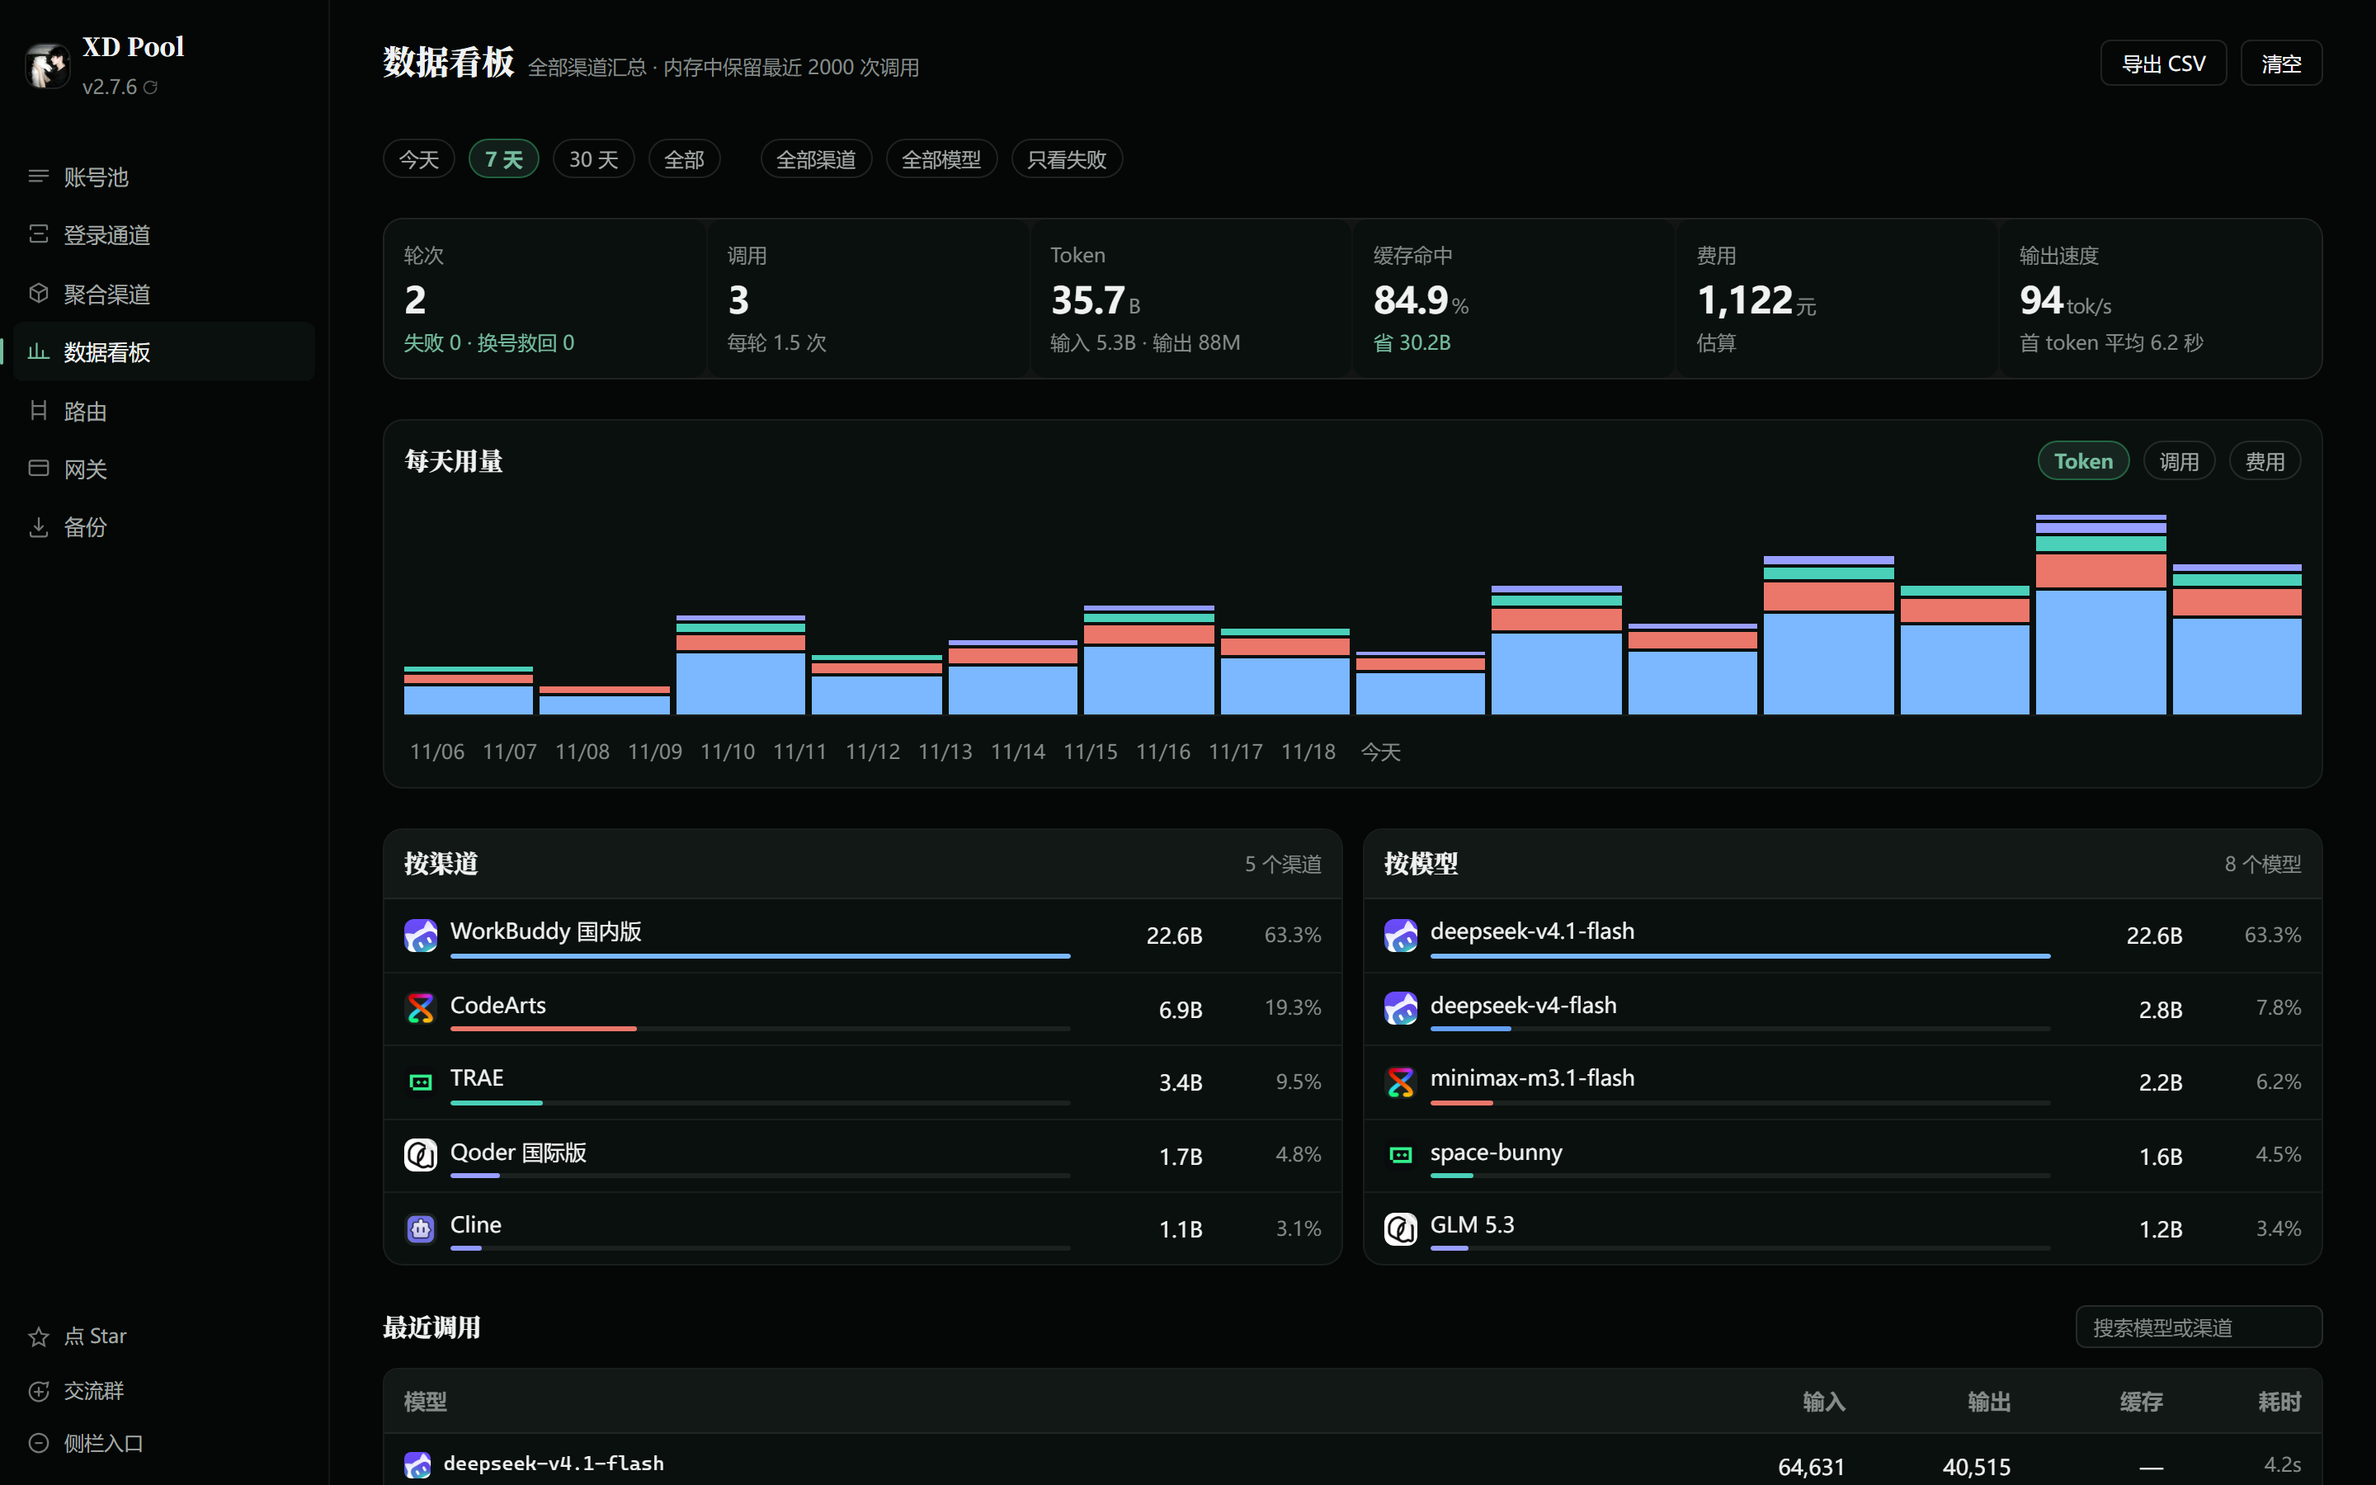
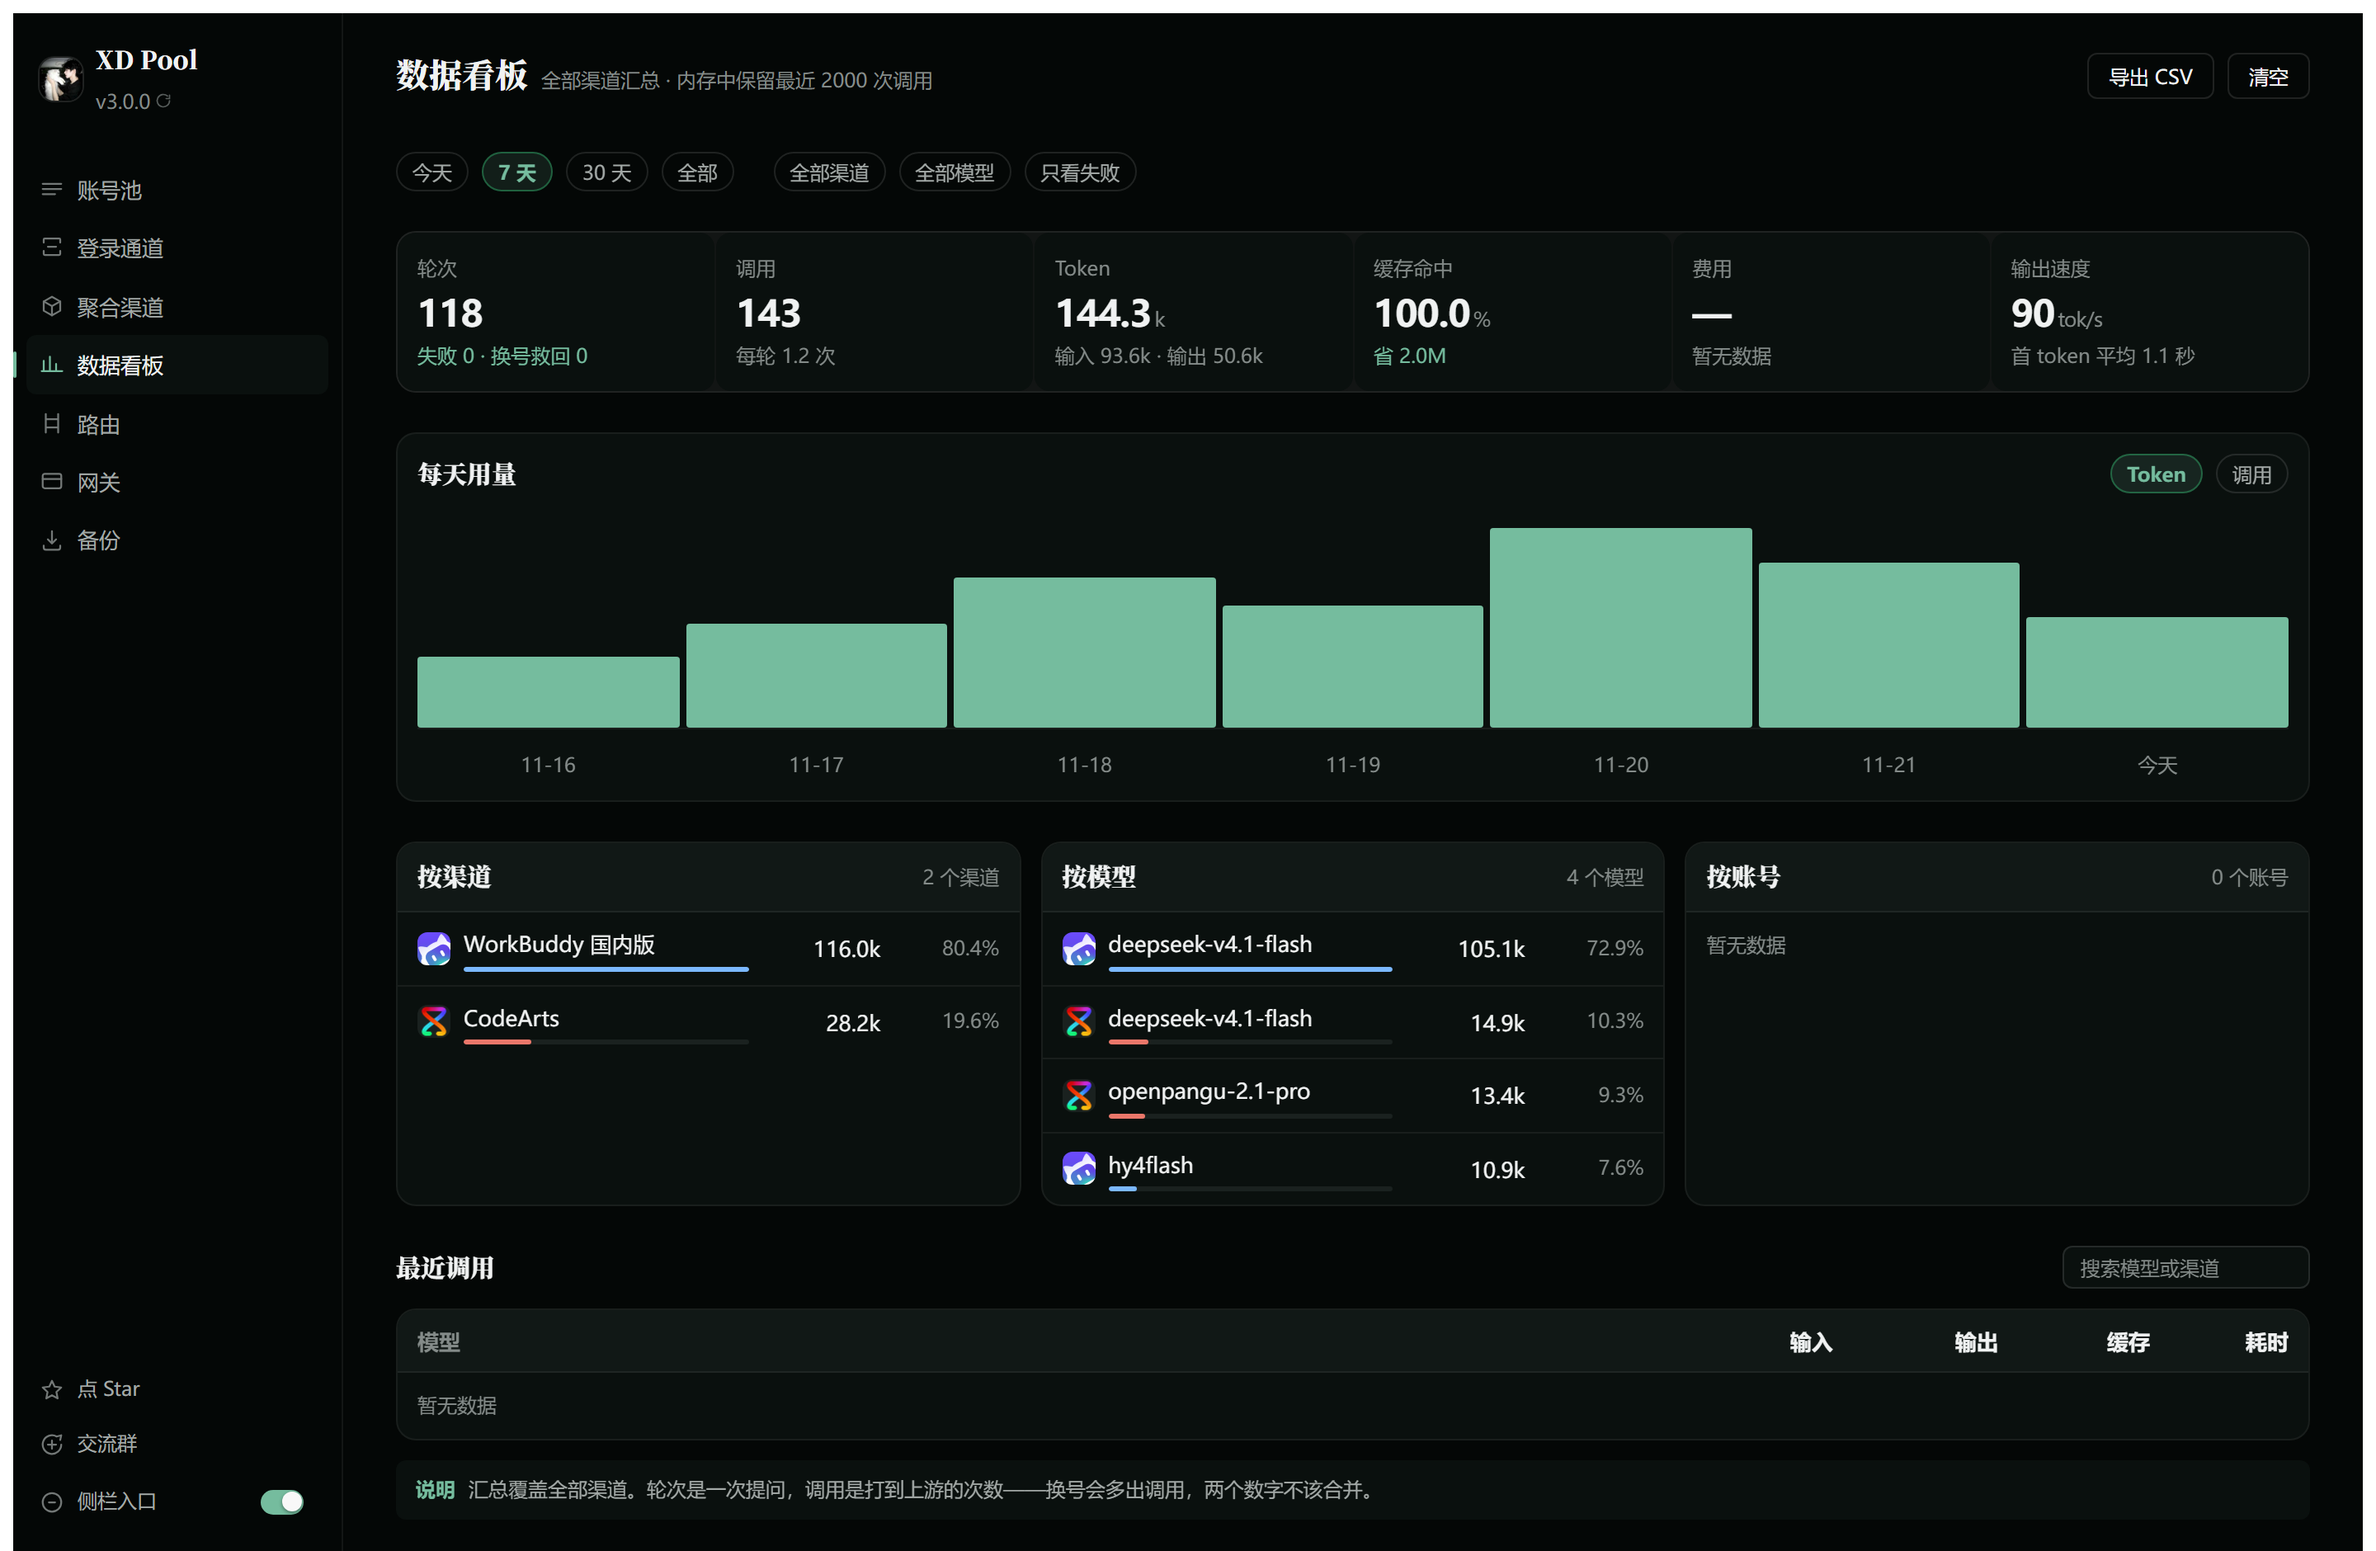
docs: README 换成 3.0.0 的截图与说明

diff --git a/README.md b/README.md
@@ -32,16 +32,17 @@
 
 它从一件事开始——把本机 WorkBuddy 桌面 App 里登录过的**所有账号**合成一个自动容错的池子，哪个号被限流了、积分用光了，请求自动换到下一个能用的号上去。你不用挑号，不用手动导入。
 
-然后它长成了六页：账号池之外，还能扫码登录十三家厂商的免费模型、把 **76 家**厂商的免费额度聚合成一条通道、看用量账本、把几个模型串成链、把池子开成一个本地 OpenAI 兼容网关。
+然后它长成了七个页面：账号池之外，还能登录二十多家厂商的免费模型、把 **76 家**厂商的免费额度聚合成一条通道、看用量账本、把几个模型串成链、把池子开成一个本地 OpenAI 兼容网关。
 
 | 页面 | 干什么 |
 | --- | --- |
 | **账号池** | 本机 WorkBuddy 账号、池健康、实时用量、积分自动化 |
-| **扫码登录** | 十三家支持网页 / 扫码登录的厂商，登一次，它们的免费模型就进选择器 |
+| **登录通道** | 二十多家厂商，登一次，它们的免费模型就进选择器 |
 | **聚合渠道** | 76 家厂商的免费额度接进同一个池（默认一家都不开，填了 key 才亮） |
 | **数据看板** | 今天的轮次、调用、失败、换号救回、token、缓存命中、速度 |
 | **路由** | 把多个模型串成一条链，按顺序或轮换使用 |
 | **网关** | 把池子开成本地 OpenAI 兼容接口，可转发给局域网其它设备 |
+| **备份** | 账号池、设置、路由规则导出成加密文件，可随时恢复 |
 
 **另外附送一整套「积分自动化」**：签到、领任务奖励、连登兑换、开猫猫旅行……这些每天都要手动点一遍的活儿，插件在后台替你干完了。
 
@@ -52,33 +53,34 @@
 
 ## 先看几张图
 
-**账号池（卡片首页：品牌栏 + 六个页面标签，顶部就是用量）**
+**账号池（左功能页栏 + 中栏渠道列表 + 右栏选中渠道的详情）**
 
-![账号池：顶栏显示 XD Pool 与版本号、七个页面标签、用量面板在页面最上方、下方是 WorkBuddy 国内版账号卡与「已接入」状态](assets/account-pool.png)
+![账号池：中栏列出已登录与未登录的渠道，右栏是 CodeArts 的详情——三格统计、账号使用方式、积分自动化、账号卡两列网格与模型列表](assets/account-pool.png)
 
-**扫码登录（十三家支持网页或扫码登录的厂商，登一次就能用它们的免费模型）**
+**登录通道（已登录 / 未登录分组，每家一张卡，各带图标、说明与登录按钮）**
 
-![扫码登录：十三家厂商列表，CodeArts 华为云、WorkBuddy 国内版与国际版各带说明与登录按钮](assets/login-channels.png)
+![登录通道：顶部显示渠道总数与已连接数，右侧搜索框；已登录与未登录分两组，每张卡带厂商图标、一句说明与登录按钮](assets/login-channels.png)
 
-**聚合渠道（把各家的免费额度接进同一个模型池，76 家厂商按分类筛选）**
+**聚合渠道（把各家免费额度接进同一个模型池）**
 
-![聚合渠道：聚合开关、搜索框、全部分类 76 / API Key 60 / 免费 1 / 有免费额度 10 / 本地 3 / 需授权 2 的分类筛选](assets/aggregate-channels.png)
+![聚合渠道：聚合总开关、搜索厂商、按 API Key / 免费 / 有免费额度 / 本地 / 需授权分类筛选，每家一张卡填 Key 后即可发现模型](assets/aggregate-channels.png)
 
-**账号积分详情（池中账号：积分包、连签天数、今日已签、保留积分）**
+**数据看板（时间范围、按渠道 / 模型 / 账号三个榜单、每日柱状图、最近调用）**
 
-![账号积分详情：当前使用的账号展开后显示合计积分、连签 16 天、每日 +100 积分、今日已签按钮、CodeBuddy 积分包余额与到期时间，以及保留积分输入框](assets/account-credits.png)
+![数据看板：六格统计、每天用量柱状图、按渠道与按模型两个榜单、最近调用表，顶部可按时间范围与只看失败筛选，右上角可导出 CSV](assets/dashboard.png)
 
-**积分自动化面板**
+**账号卡（余额、过期时间、进度条、可展开积分明细）**
 
-![积分自动化：总开关、立即运行按钮、每个任务的上次执行时间与当轮具体领取到的任务清单、连登解锁倒计时](assets/automation-panel.png)
+![账号卡：状态点、账号名、开关、大字余额与过期时间、进度条，下方可展开积分明细](assets/account-credits.png)
 
-**模型选择器（国内版 / 国际版 两个独立分组）**
+**账号使用方式与积分自动化**
 
-![模型选择器：国内版与国际版各占一个分组，每个模型名后显示积分倍率与促销标签](assets/model-picker.png)
+![账号使用方式与积分自动化：五种分配策略（优先 / 轮换 / 均衡 / 粘住 / 按到期）与每日签到开关，下方各带一句说明](assets/automation-panel.png)
 
-**国内版 / 国际版 双供应商（各自独立账号、积分与模型，可同时使用）**
+**模型区块（勾选要用的模型，右侧选上下文窗口）**
 
-![切换国内版与国际版：未登录的一侧给出该区域的登录步骤](assets/region-tabs.png)
+![模型区块：标题显示已启用数 / 总数，每行一个开关、模型名与上下文窗口下拉；底部提示倍率含义](assets/model-picker.png)
+
 
 ## 功能
 
@@ -286,7 +288,7 @@ xdpool:
 
 ## 已知限制
 
-- **WorkBuddy 主账号的登录仍走桌面 App**：XD Pool 可以为插件自己的十三家扫码登录渠道发起扫码，但 WorkBuddy 本体的 token 由桌面 App 的腾讯 SSO 铸造并和设备绑定，池不会替你登录 WorkBuddy。加号 = 在桌面 App 里登录 / 切换，XD Pool 自动吸收。
+- **WorkBuddy 主账号的登录仍走桌面 App**：XD Pool 可以为插件自己的二十多家登录渠道发起登录，但 WorkBuddy 本体的 token 由桌面 App 的腾讯 SSO 铸造并和设备绑定，池不会替你登录 WorkBuddy。加号 = 在桌面 App 里登录 / 切换，XD Pool 自动吸收。
 
 - **自动化里有几个任务刻意没做**
   - `Expert_Philanthropy`（公益专家）：需要真捐钱，绕不过去。
